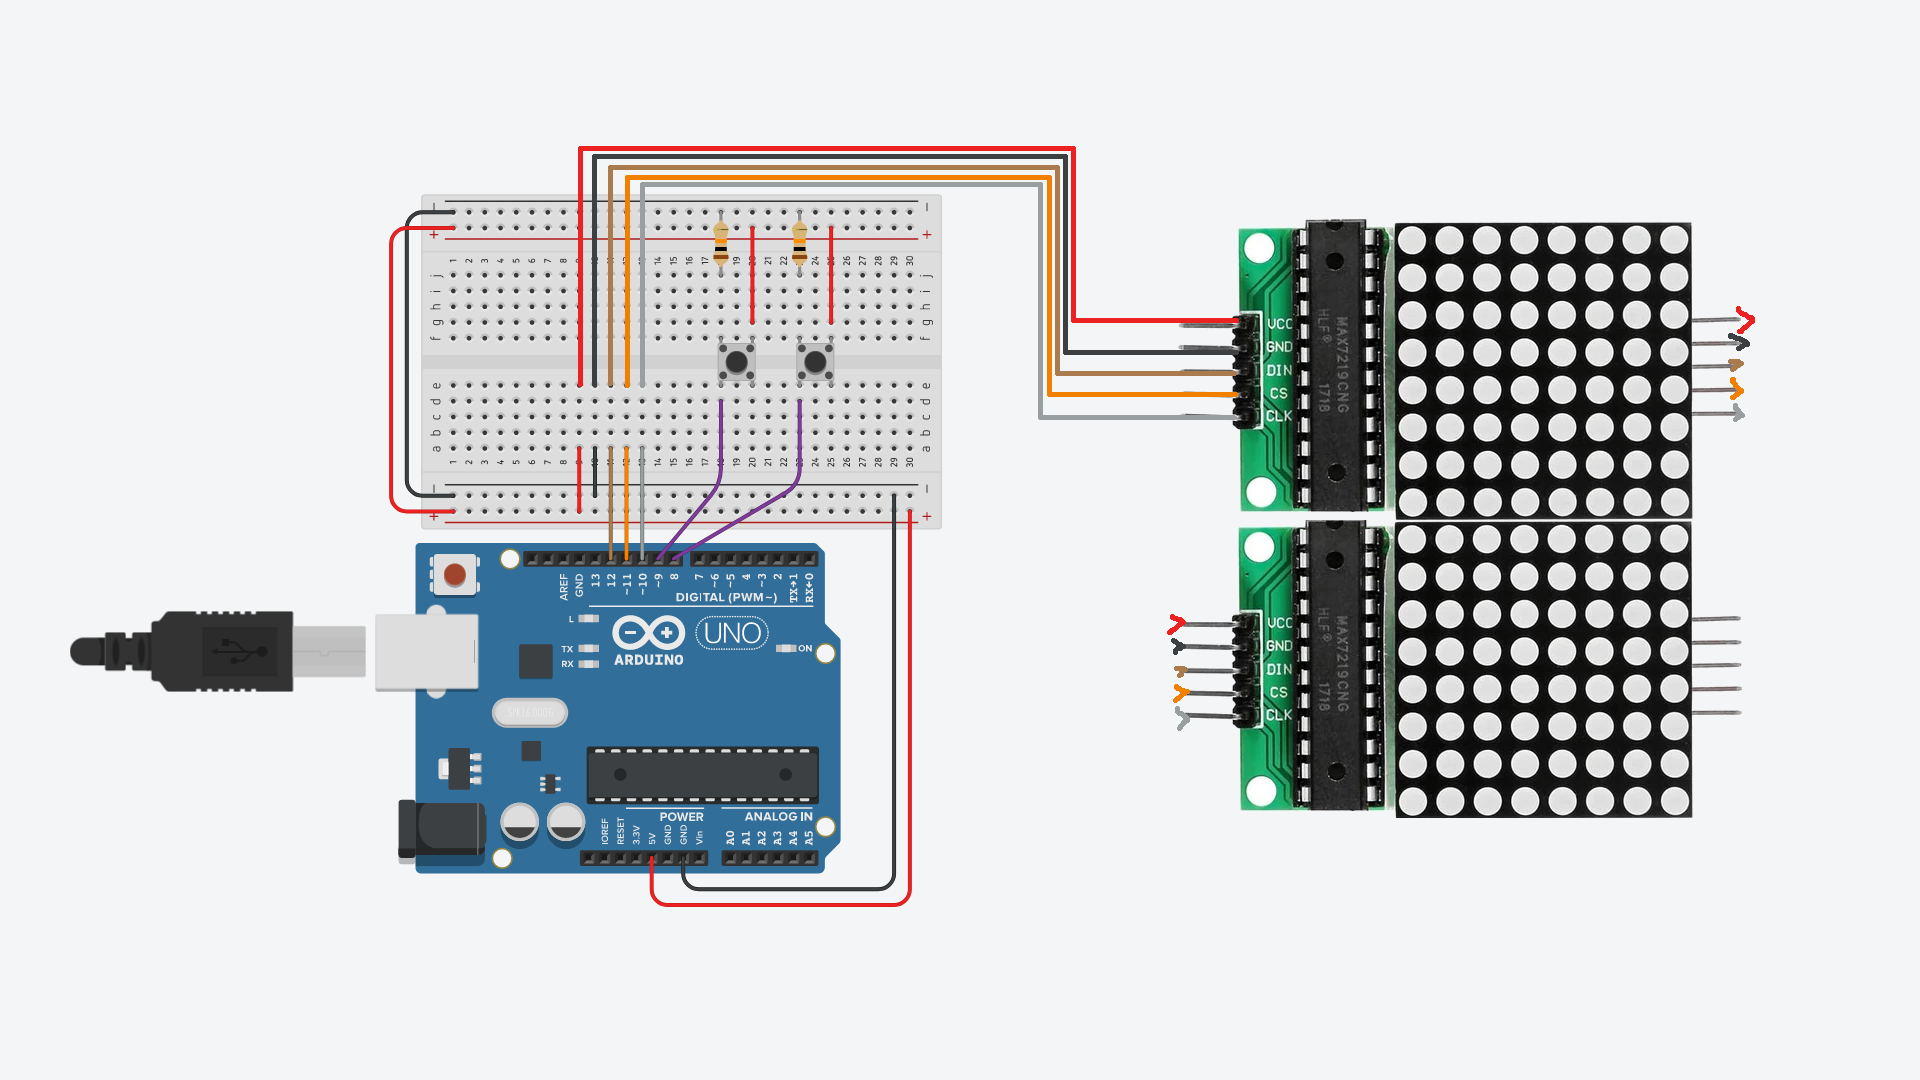
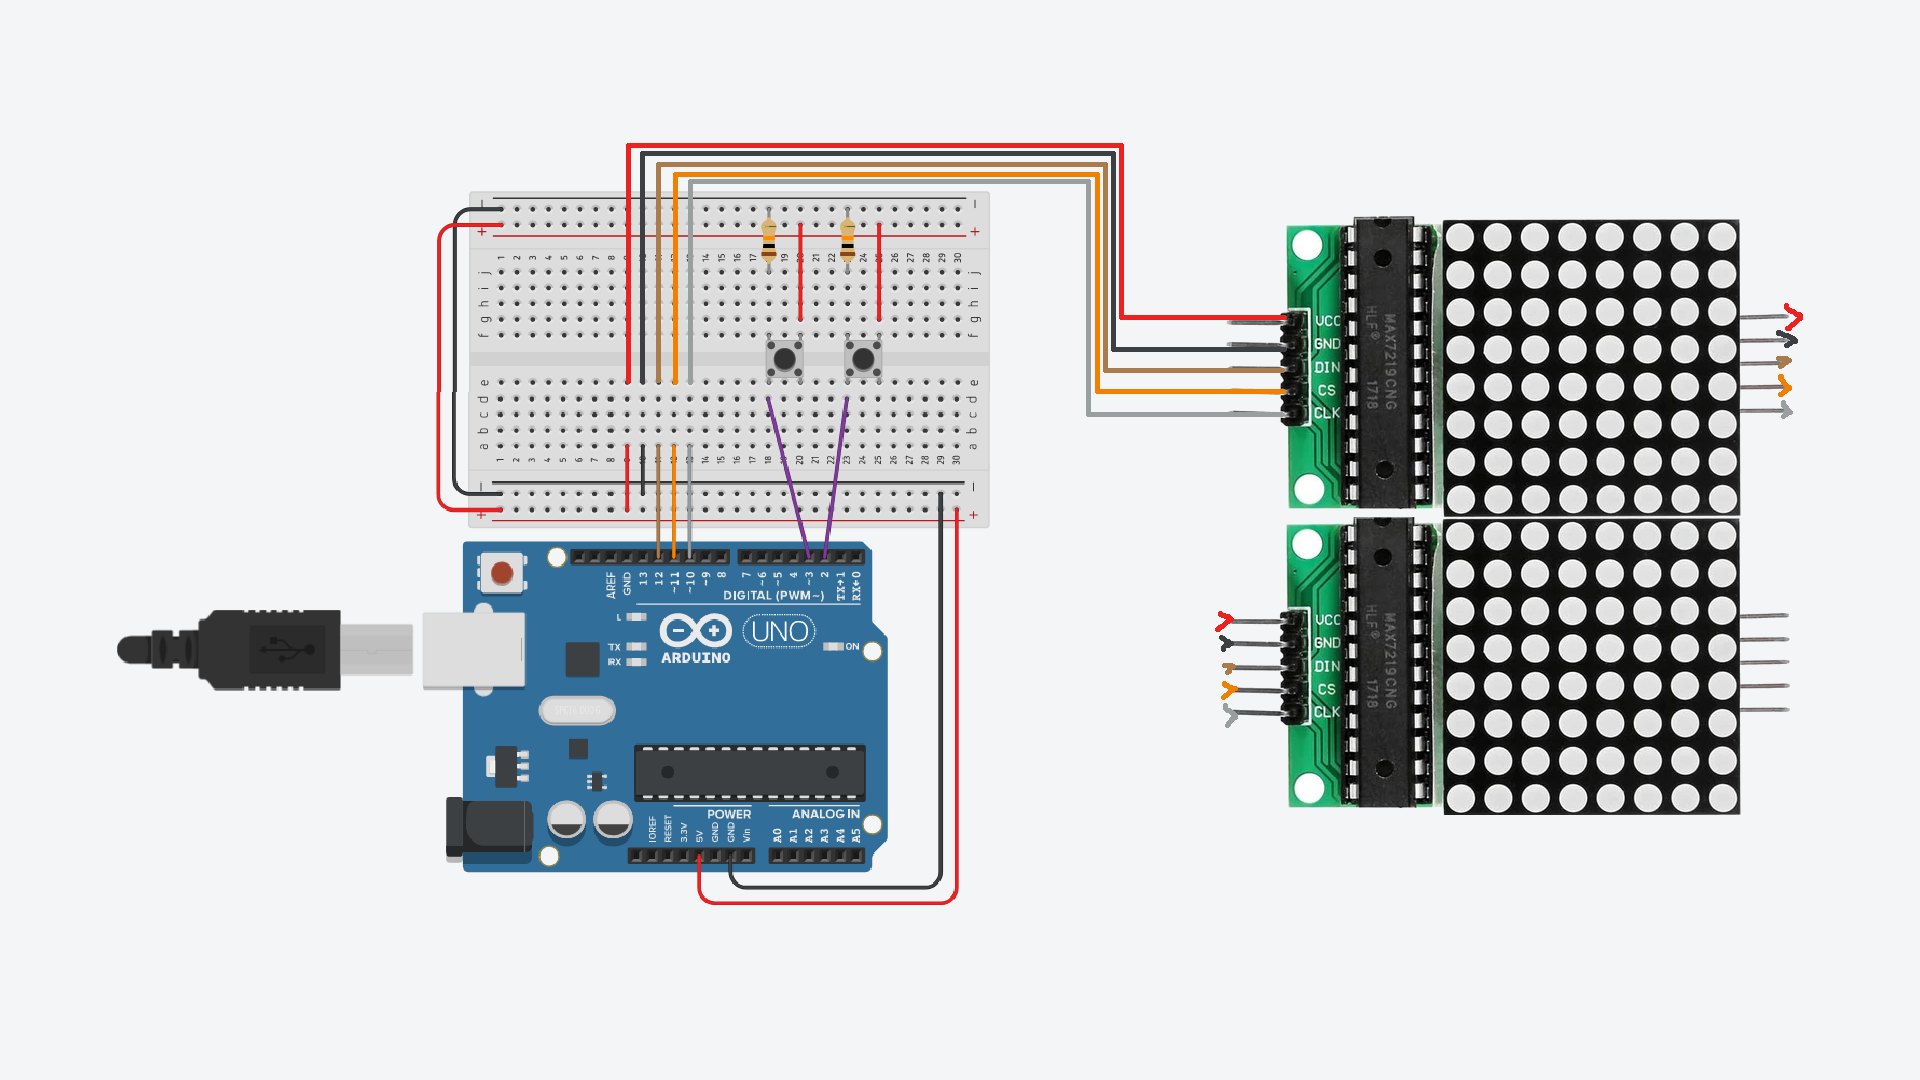
fix: change to interrupts

Changed region(s): [[0.0312, 0.1222, 0.9375, 0.8556]]

diff --git a/src/atmega/main.c b/src/atmega/main.c
@@ -6,6 +6,7 @@
 #define BOARD_HEIGHT (8 * NUM_DEVICES)
 #define TETRIS_IMPLEMENTATION
 #include "tetris.h"
+#include <avr/interrupt.h>
 #include <avr/io.h>
 #include <stdint.h>
 #include <stdlib.h>
@@ -23,9 +24,13 @@ uint8_t buffer[2 * NUM_DEVICES];
 
 int tetris_rand_int(int max) { return rand() % max; }
 
+volatile int input = 0;
 struct tetris t;
 struct tetris tmp;
 struct led_controller controller;
+
+ISR(INT0_vect) { input = -1; }
+ISR(INT1_vect) { input = 1; }
 
 int main() {
     int is_game_over = 0;
@@ -40,25 +45,25 @@ int main() {
         lc_clear_display(&controller, i);
     }
 
-    // Input setup
-    DDRB &= ~_BV(RBUTTON_PIN);
-    DDRB &= ~_BV(LBUTTON_PIN);
-
     // Tetris setup
     tetris_init(&t);
+
+    // Input setup
+    EICRA |= _BV(ISC00) | _BV(ISC01) | _BV(ISC10) | _BV(ISC11);
+    EIMSK |= _BV(INT0) | _BV(INT1);
+
+    sei();
 
     while (1) {
         tmp = t;
 
-        int left_button = (PINB & _BV(LBUTTON_PIN)) != 0;
-        int right_button = (PINB & _BV(RBUTTON_PIN)) != 0;
-        int input = right_button - left_button;
         enum move m = MOVE_NONE;
         if (input > 0) {
             m = MOVE_RIGHT;
         } else if (input < 0) {
             m = MOVE_LEFT;
         }
+        input = 0;
 
         tetris_tick(&t, m);
 
